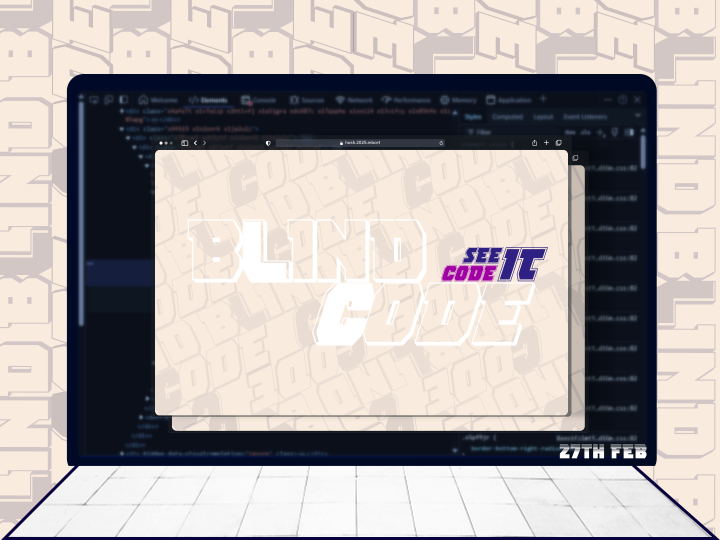
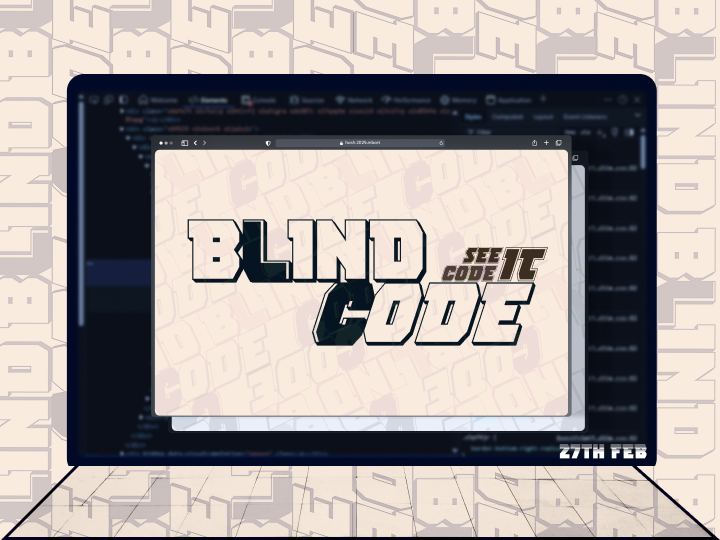
ui fixes

diff --git a/src/App.jsx b/src/App.jsx
@@ -1,99 +1,101 @@
-import { useState, useEffect, useRef } from 'react';
-import './App.css';
-import './fonts.css';
+  import { useState, useEffect, useRef } from 'react';
+  import './App.css';
+  import './fonts.css';
 
-import CustomCursor from "./components/CustomCursor";
-import Section1 from './components/section1';
-import './fonts.css'; 
-import HappeningSection from './components/section2';
-import CursorGlow from './components/CursorGlow';
-import Section3 from './components/section3';
-import Section4 from './components/section4';
-import Section5 from './components/section5';
-import Section6 from './components/section6';
+  import CustomCursor from "./components/CustomCursor";
+  import Section1 from './components/section1';
+  import './fonts.css'; 
+  import HappeningSection from './components/section2';
+  import CursorGlow from './components/CursorGlow';
+  import Section3 from './components/section3';
+  import Section4 from './components/section4';
+  import Section5 from './components/section5';
+  import Section6 from './components/section6';
 
-function App() {
-  const [showLoader, setShowLoader] = useState(true);
-  const [showSection1, setShowSection1] = useState(false);
-  const [isFirstLoad, setIsFirstLoad] = useState(true);
-  const [scrollY, setScrollY] = useState(0);
-  const section1Ref = useRef(null);
+  function App() {
+    const [showLoader, setShowLoader] = useState(true);
+    const [showSection1, setShowSection1] = useState(false);
+    const [isFirstLoad, setIsFirstLoad] = useState(true);
+    const [scrollY, setScrollY] = useState(0);
+    const section1Ref = useRef(null);
 
-  useEffect(() => {
-    // Check session storage for first load
-    const firstLoad = sessionStorage.getItem('firstLoad');
-    if (!firstLoad) {
-      sessionStorage.setItem('firstLoad', 'true');
-      setIsFirstLoad(true);
-    } else {
-      setIsFirstLoad(false);
-    }
+    useEffect(() => {
+      // Check session storage for first load
+      const firstLoad = sessionStorage.getItem('firstLoad');
+      if (!firstLoad) {
+        sessionStorage.setItem('firstLoad', 'true');
+        setIsFirstLoad(true);
+      } else {
+        setIsFirstLoad(false);
+      }
 
-    // Loader timeout
-    const timer = setTimeout(() => {
-      setShowLoader(false);
-      setShowSection1(true);
-    }, 5000);
+      // Loader timeout
+      const timer = setTimeout(() => {
+        setShowLoader(false);
+        setShowSection1(true);
+      }, 5000);
 
-    return () => clearTimeout(timer);
-  }, []);
+      return () => clearTimeout(timer);
+    }, []);
 
-  useEffect(() => {
-    const handleScroll = () => {
-      setScrollY(window.scrollY);
-    };
+    useEffect(() => {
+      const handleScroll = () => {
+        setScrollY(window.scrollY);
+      };
 
-    window.addEventListener('scroll', handleScroll);
-    return () => window.removeEventListener('scroll', handleScroll);
-  }, []);
+      window.addEventListener('scroll', handleScroll);
+      return () => window.removeEventListener('scroll', handleScroll);
+    }, []);
 
-  // Calculate blur and scale based on scroll position
-  const blurAmount = Math.min(scrollY / 50, 10); // Adjust divisor for sensitivity
-  const scaleAmount = Math.max(1 - scrollY / 1000, 0.8); // Adjust divisor for sensitivity
+    // Calculate blur and scale based on scroll position
+    const blurAmount = Math.min(scrollY / 5, 10); // Adjust divisor for sensitivity
+    const scaleAmount = Math.max(1 - scrollY / 100, 0.8); // Adjust divisor for sensitivity
+    const opacityAmount = Math.max(1 - scrollY / 500, 0); // Adjust divisor for sensitivity
 
-  return (
-    <>
-      <CursorGlow />
-      <CustomCursor />
-      <div className='Container'>
-        {showLoader && <Section3 autoRotate={true} />}
-        <div
-          className='Section1'
-          ref={section1Ref}
-          style={{
-            filter: `blur(${blurAmount}px)`,
-            transform: `scale(${scaleAmount})`,
-            position: 'fixed', // Keep Section 1 in place
-            top: 0,
-            left: 0,
-            width: '100%',
-            height: '100vh',
-            zIndex: 1, // Section 1 stays below Section 2
-          }}
-        >
-          {showSection1 && <Section1 isFirstLoad={isFirstLoad} />}
+    return (
+      <>
+        <CursorGlow />
+        <CustomCursor />
+        <div className='Container'>
+          {showLoader && <Section3 autoRotate={true} />}
+          <div
+            className='Section1'
+            ref={section1Ref}
+            style={{
+              filter: `blur(${blurAmount}px)`,
+              transform: `scale(${scaleAmount})`,
+              opacity: opacityAmount, // Adjust transparency on scroll
+              position: 'fixed', // Keep Section 1 in place
+              top: 0,
+              left: 0,
+              width: '100%',
+              height: '100vh',
+              zIndex: 1, // Section 1 stays below Section 2
+            }}
+          >
+            {showSection1 && <Section1 isFirstLoad={isFirstLoad} />}
+          </div>
+          <div
+            className='Section2'
+            style={{
+              position: 'relative',
+              zIndex: 2, // Section 2 appears above Section 1
+            }}
+          >
+            <HappeningSection />
+          </div>
+          <div className='Section4' style={{ position: 'relative', zIndex: 2 }}>
+            <Section4 />
+          </div>
+          <div className='Section5' style={{ position: 'relative', zIndex: 2 }}>
+            <Section5 />
+          </div>
+          <div className='Section6' style={{ position: 'relative', zIndex: 2 }}>
+            <Section6 />
+          </div>
         </div>
-        <div
-          className='Section2'
-          style={{
-            position: 'relative',
-            zIndex: 2, // Section 2 appears above Section 1
-          }}
-        >
-          <HappeningSection />
-        </div>
-        <div className='Section4' style={{ position: 'relative', zIndex: 2 }}>
-          <Section4 />
-        </div>
-        <div className='Section5' style={{ position: 'relative', zIndex: 2 }}>
-          <Section5 />
-        </div>
-        <div className='Section6' style={{ position: 'relative', zIndex: 2 }}>
-          <Section6 />
-        </div>
-      </div>
-    </>
-  );
-}
+      </>
+    );
+  }
 
-export default App;
+  export default App;

diff --git a/src/components/section1.css b/src/components/section1.css
@@ -1,9 +1,3 @@
-/* INITIAL LOAD ANIMATION */
-.initial-load {
-  animation: logoEntrance 1.5s cubic-bezier(0.25, 0.46, 0.45, 0.94) forwards;
-  transform-origin: center;
-}
-
 @keyframes logoEntrance {
   0% {
     transform: scale(3);
@@ -26,64 +20,7 @@
   justify-content: center;
 }
 
-/* MARQUEE BACKGROUND - FULL SCREEN & DIAGONAL */
-.marquee-background {
-  position: absolute;
-  width: 200vw;
-  height: 200vh;
-  top: -50vh;
-  left: -50vw;
-  display: flex;
-  flex-direction: column;
-  justify-content: space-between;
-  transform: rotate(-30deg);
-  z-index: -1;
-  pointer-events: none;
-}
 
-/* MARQUEE ROWS */
-.marquee-row {
-  width: 100%;
-  overflow: hidden;
-  white-space: nowrap;
-  display: flex;
-  justify-content: space-between;
-}
-
-/* MARQUEE TRACK (Scrolling Text) */
-.marquee-track {
-  display: inline-block;
-  font-size: 6vw; /* Scales dynamically based on screen size */
-  font-weight: bold;
-  color: transparent;
-  -webkit-text-stroke: 2px rgba(255, 255, 255, 0.25);
-  text-transform: uppercase;
-  animation: scroll 20s linear infinite;
-}
-
-/* Reverse alternate rows */
-.marquee-row:nth-child(even) .marquee-track {
-  animation: scroll-reverse 20s linear infinite;
-}
-
-/* KEYFRAMES */
-@keyframes scroll {
-  from {
-    transform: translateX(100%);
-  }
-  to {
-    transform: translateX(-100%);
-  }
-}
-
-@keyframes scroll-reverse {
-  from {
-    transform: translateX(-100%);
-  }
-  to {
-    transform: translateX(100%);
-  }
-}
 
 /* LOGO CONTAINER */
 .logo-container {

diff --git a/src/App.css b/src/App.css
@@ -35,13 +35,6 @@
   height: 100%;
 }
 
-.Section {
-  width: 100%;
-  height: 100vh; /* Each section takes full viewport height */
-  display: flex;
-  justify-content: center;
-  align-items: center;
-}
 
 .Section1 {
   position: fixed; /* Keep Section 1 fixed */
@@ -53,11 +46,7 @@
   transition: filter 0.3s ease, transform 0.3s ease; /* Smooth transitions */
 }
 
-.Section2 {
-  position: relative;
-  z-index: 2; /* Section 2 appears above Section 1 */
-}
-
+.Section2,
 .Section4,
 .Section5,
 .Section6 {

diff --git a/src/components/section5.jsx b/src/components/section5.jsx
@@ -48,7 +48,7 @@ const Timeline = () => {
   }, []);
 
   return (
-    <section className="happening-section" id="timeline">
+    <section className="timeline-section" id="timeline">
       <div className="container">
         <h2 className="heading">
           EVENT <span className="highlight">TIMELINE</span>

diff --git a/src/components/section6.jsx b/src/components/section6.jsx
@@ -19,7 +19,7 @@ const Sponsors = () => {
   ];
 
   return (
-    <section className="happening-section" id="sponsors">
+    <section className="sponsor-section" id="sponsors">
       <div className="container">
         <h2 className="heading">
           OUR <span className="highlight">SPONSORS</span>

diff --git a/src/components/section4.css b/src/components/section4.css
@@ -28,8 +28,8 @@
 }
 
 .event-card {
-  width: 22%;
-  height: 450px;
+  width: 100%;
+  height: 250px;
   border-radius: 20px;
   background-size: cover;
   background-position: center;
